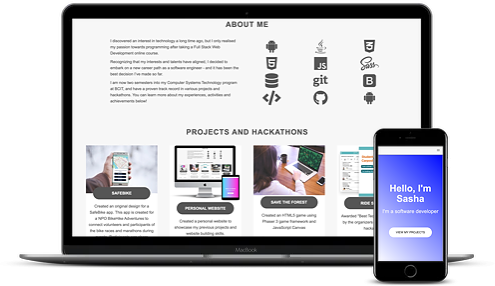
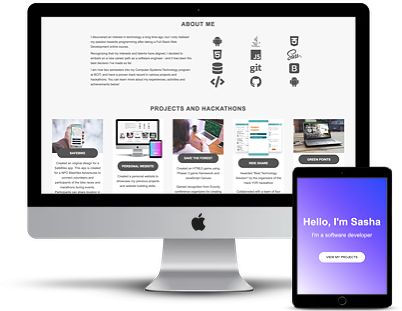
images

diff --git a/index.html b/index.html
@@ -124,7 +124,7 @@
                             </div>
                         </div>            
                             <div class="card-holder" id="portfolio"> 
-                                    <img class ="card-holder__img" src="resources/portfoli_2_screens_2_med.png">
+                                    <img class ="card-holder__img" src="resources/website_low.png">
                                     <div class="card-holder__name"><a href="#" class="card-holder__name--link"><h4>Personal Website</h4></a></div>
                                     <div class="card-holder__tech">
                                         <i class="fab fa-sass"></i> 
